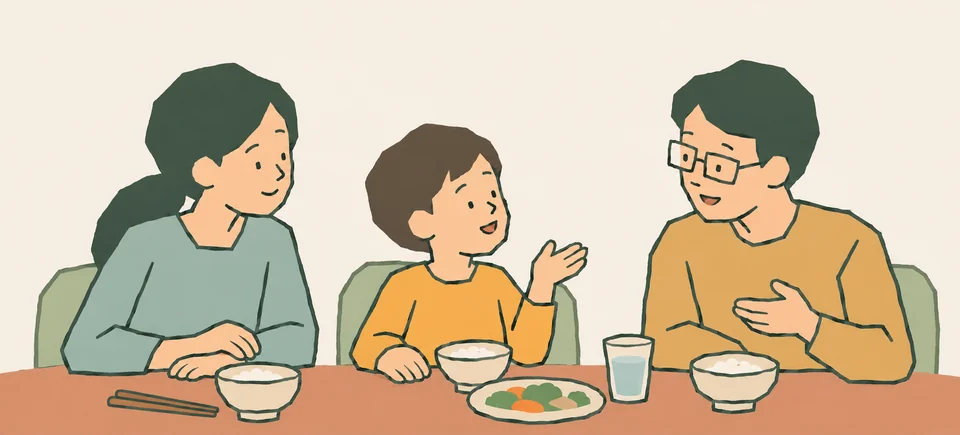
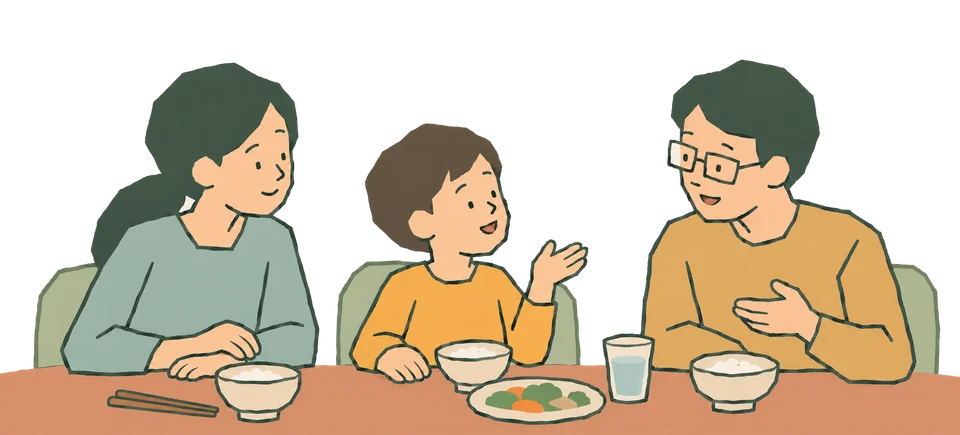
Blend homepage illustrations into page with transparent backgrounds

diff --git a/src/styles/editorial.css b/src/styles/editorial.css
@@ -14,7 +14,7 @@
   grid-template-columns: minmax(0, 2fr) minmax(18rem, 1fr);
   gap: 2.25rem;
 }
-.lead-image { display: block; background: #eee7d8; }
+.lead-image { display: block; }
 .family-art, .dinner-art, .age-item > img, .topic-image > img {
   display: block;
   inline-size: 100%;
@@ -158,9 +158,6 @@
 .topic-grid { display: grid; grid-template-columns: repeat(3, minmax(0, 1fr)); gap: 2rem; }
 .topic-image { display: block; margin-block-end: 1.25rem; }
 .topic-image > img { aspect-ratio: 16 / 9; }
-.screen-art { background: #e8d7c3; }
-.media-art { background: #dce5de; }
-.reading-art { background: #ece5b9; }
 .topic-story h3 { margin-block-start: 0.5rem; font-size: var(--type-section); }
 .topic-story h3 a { display: inline-block; min-block-size: 2.75rem; }
 .topic-story > p { margin-block-start: 1rem; color: var(--text); }
